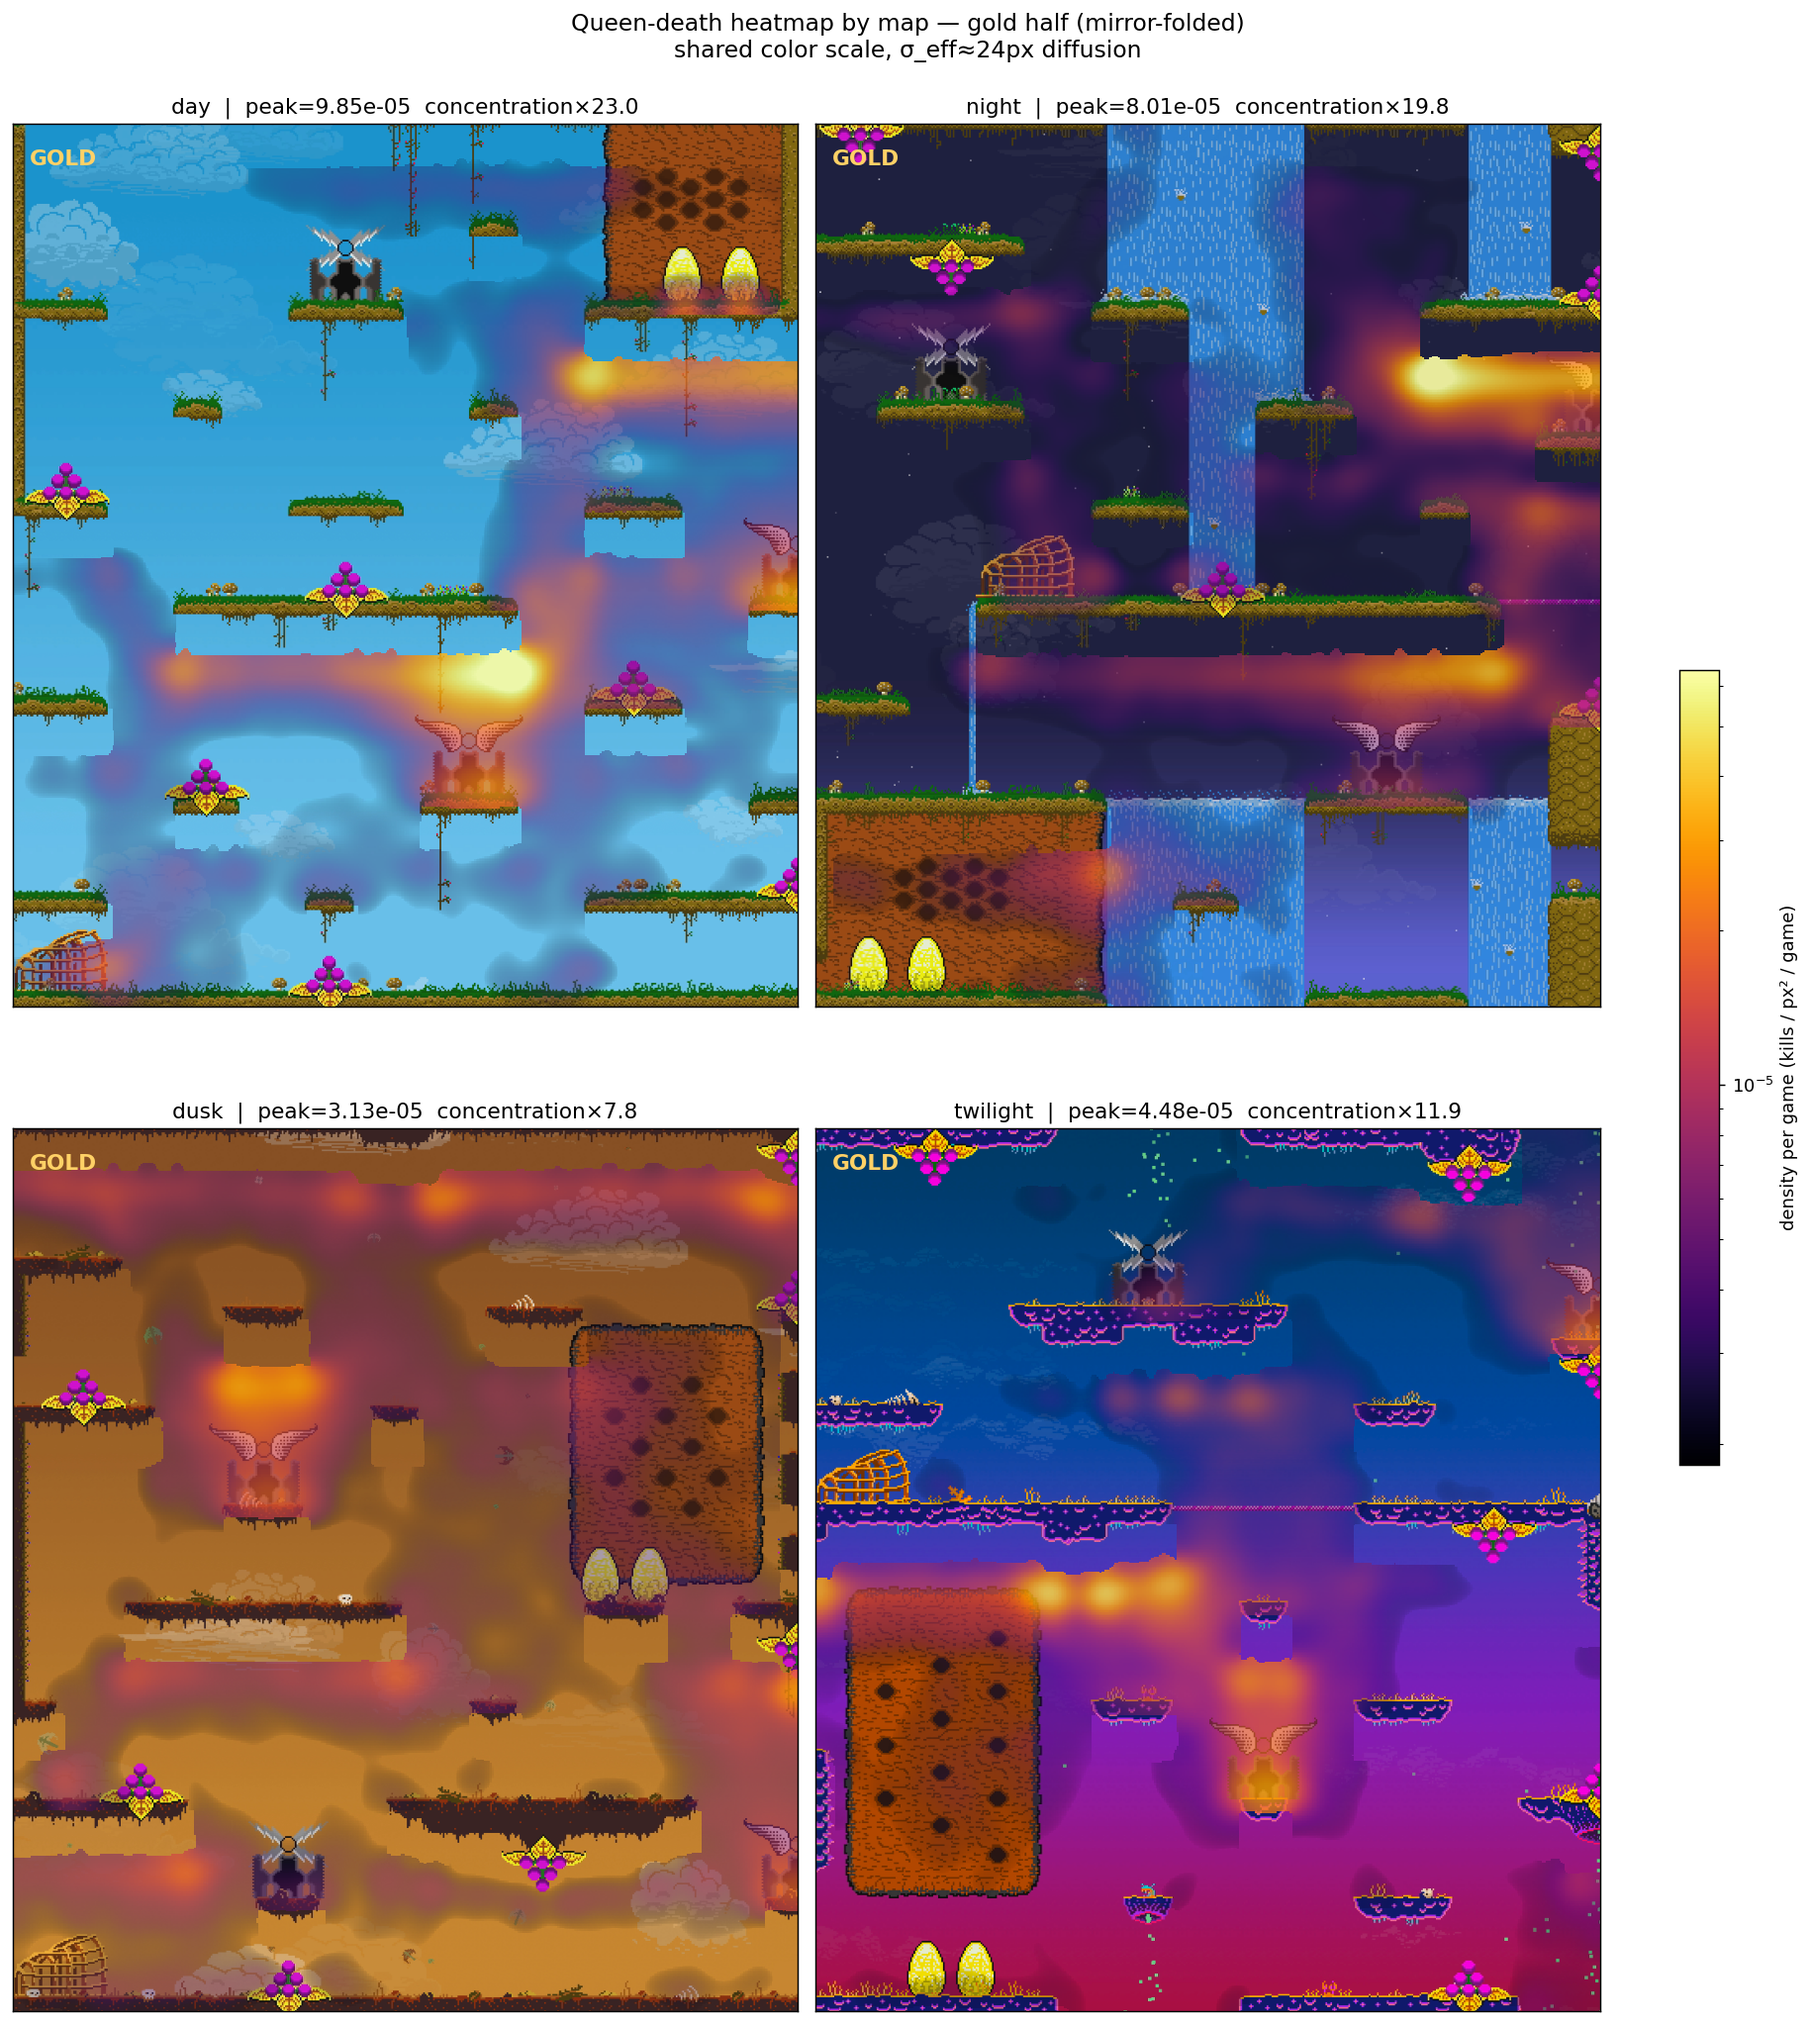
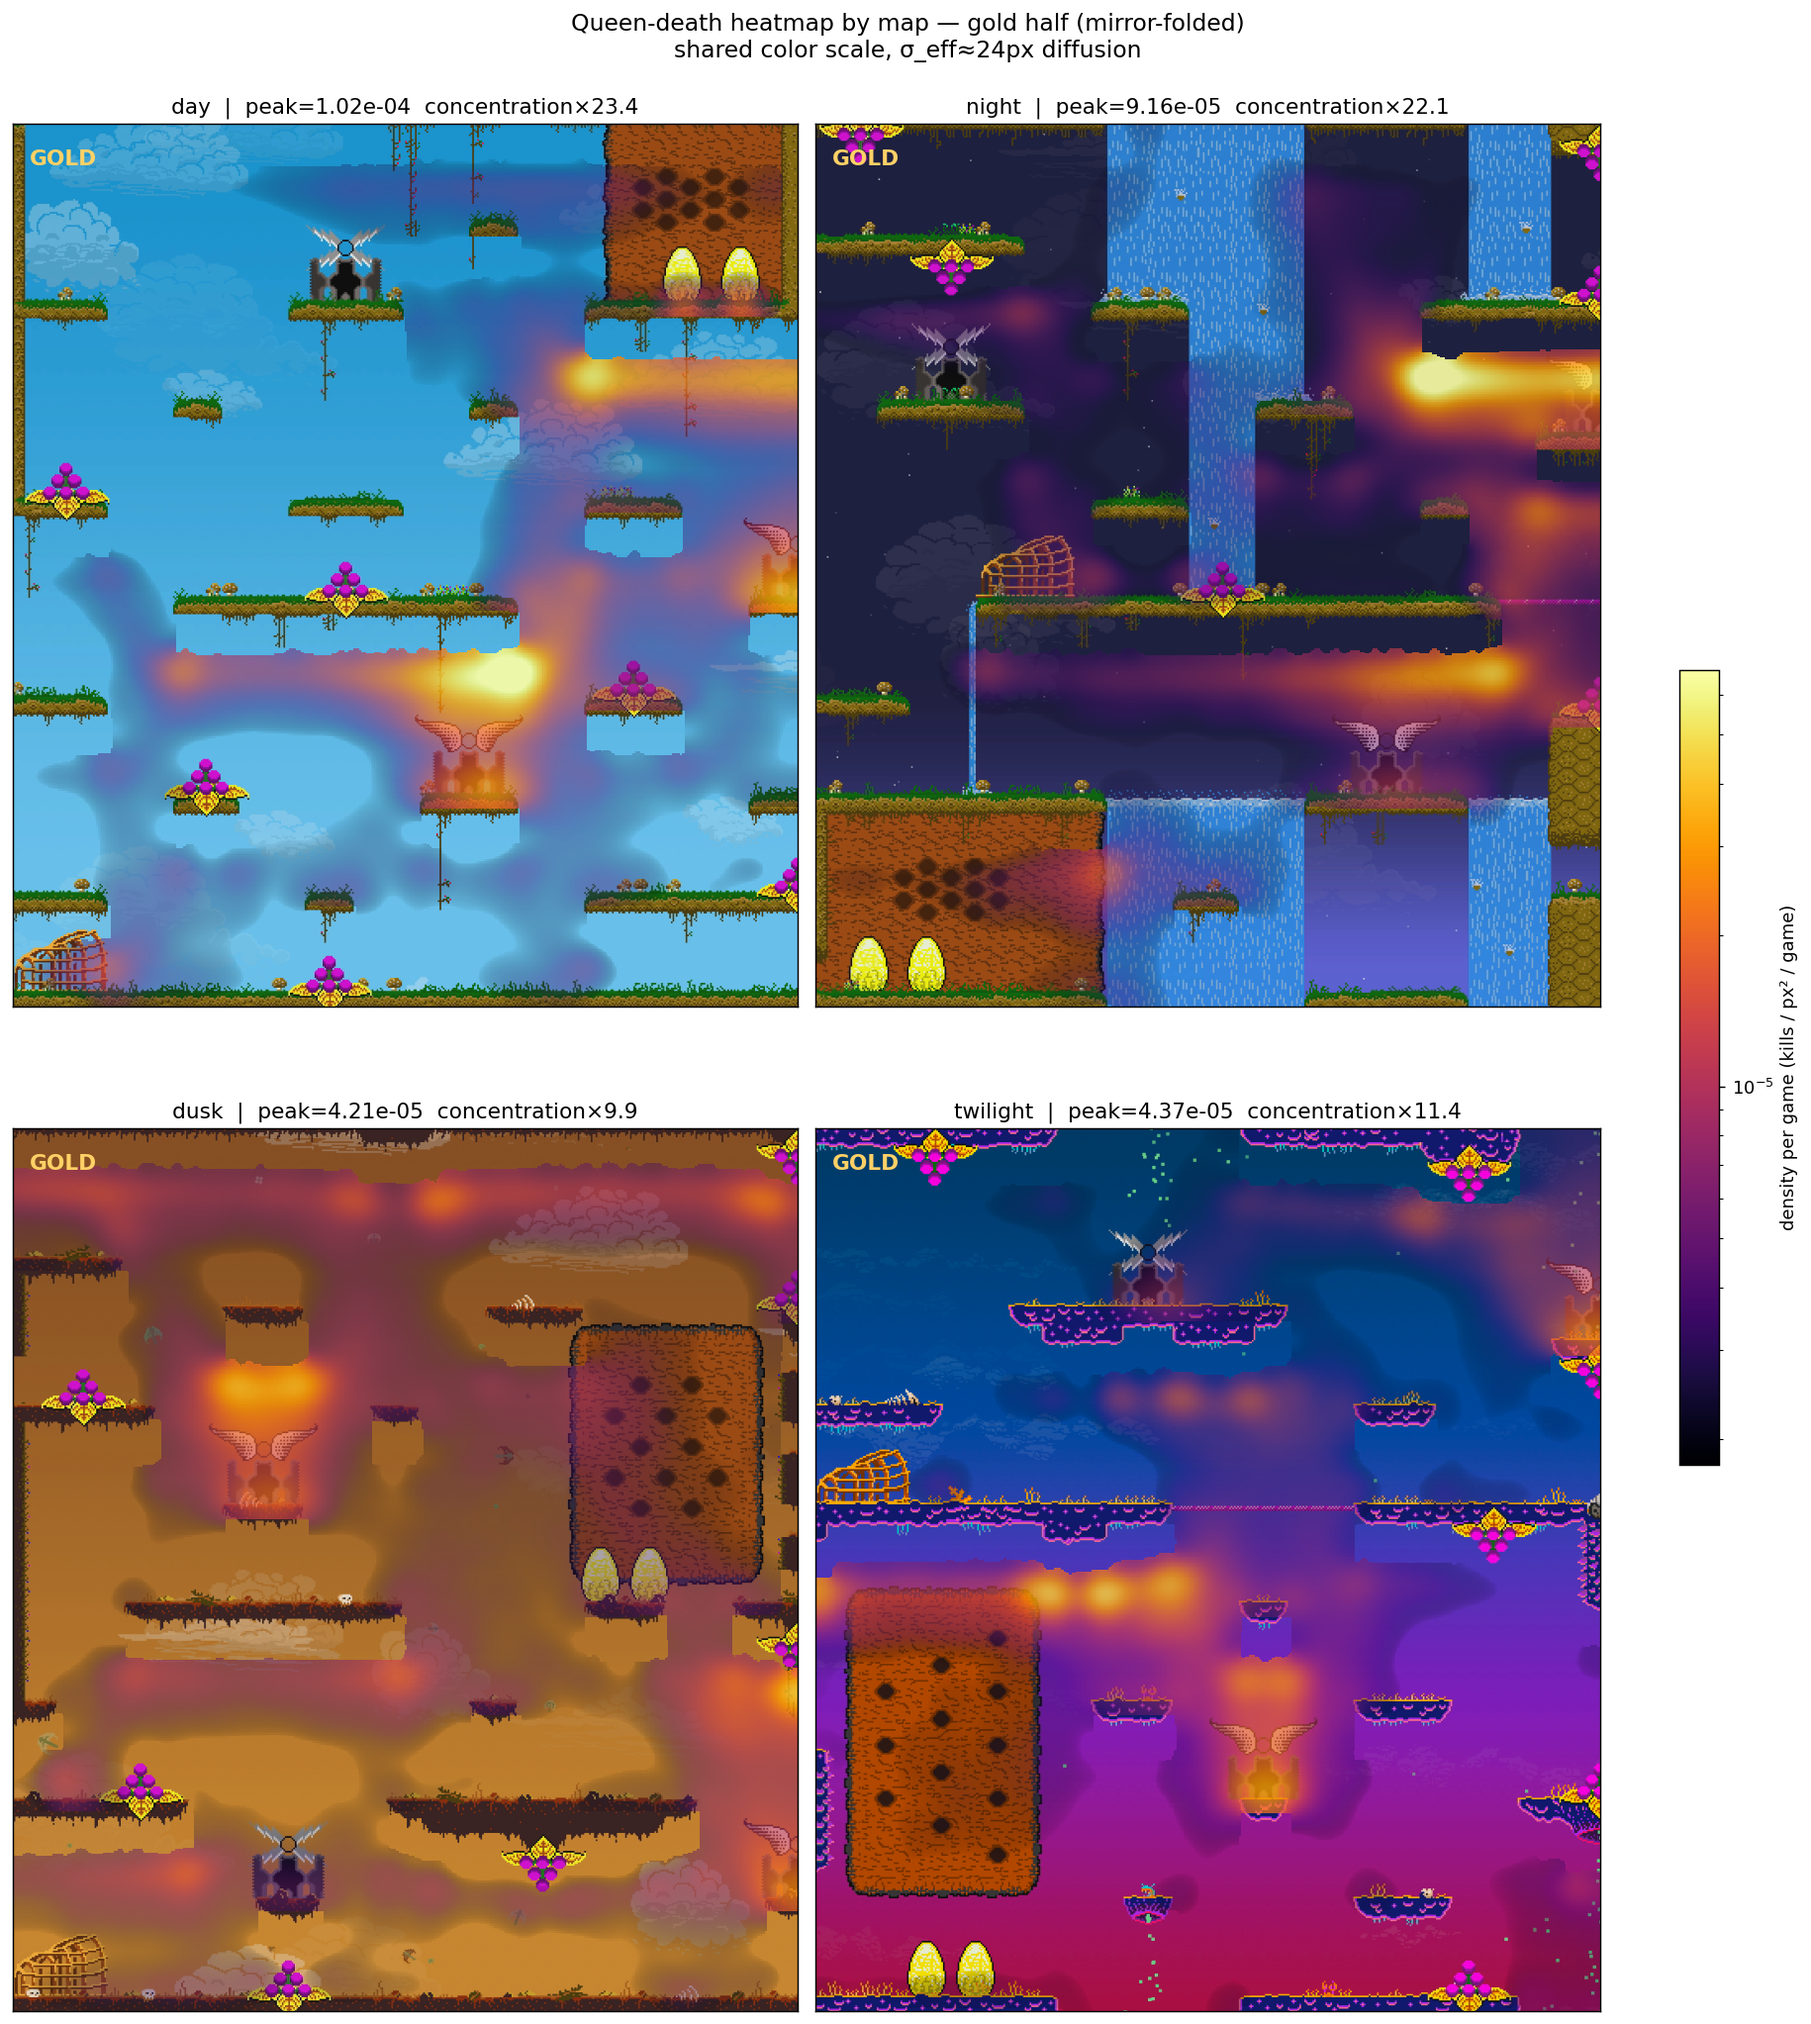
Re-run queen-death heatmap on full quality-filtered set
Drops the 10k-per-map sampling. Now uses every quality-filtered game:
49,147 day / 50,943 night / 47,427 dusk / 34,891 twilight (182,447
total, 6.1M kill events, 651k queen deaths). Concentration ratios
and peak densities updated; the qualitative ordering of maps is
unchanged but absolute peaks are tighter (e.g. night ×19.8 → ×22.1).

diff --git a/death_heatmap_analysis/report.html b/death_heatmap_analysis/report.html
@@ -59,9 +59,10 @@ plus the game&rsquo;s map index, quality rank, and
 <code>gold_on_left</code> flag. Positions are mirrored to a
 canonical gold-on-left frame; <em>y</em> is flipped from Cartesian
 (game) to pixel coordinates so it matches the screenshot.</p>
-<p>The figures below use 10,000 sampled games per map (~350,000 kill
-events per map; ~33,000 of those queen deaths). Where applicable, both
-sides of a map are mirror-folded onto the gold half via
+<p>Every quality-filtered game is included &mdash; 182,447 games in
+total (49,147 day, 50,943 night, 47,427 dusk, 34,891 twilight),
+6,096,016 kill events, 650,988 of them queen deaths. Where applicable,
+both sides of a map are mirror-folded onto the gold half via
 <code>x' = min(x, 1920 - x)</code>, doubling effective sample density
 in the visible area.</p>
 
@@ -138,10 +139,10 @@ sprite show through and high-density cells render opaque.</p>
 <h3>3.2 · Local D/K deviation</h3>
 <p>For each cell, two diffusion-smoothed densities:
 <em>D</em> = density of queen-deaths (rows where
-<code>killed_cat == &quot;Queen&quot;</code>);
+<code>killed_cat == &quot;Queen&quot;</code>; 180,136 events);
 <em>K</em> = density of kills <em>by</em> queens
-(rows where <code>killer_pid &isin; {1, 2}</code>). Plot
-<code>log&#x2081;&#x2080;(D/K)</code> minus the global value
+(rows where <code>killer_pid &isin; {1, 2}</code>; 701,574 events).
+Plot <code>log&#x2081;&#x2080;(D/K)</code> minus the global value
 <code>log&#x2081;&#x2080;(&Sigma;D / &Sigma;K)</code>. Cells with low
 combined signal (<em>D</em>+<em>K</em> below the 20th percentile of the
 playable region) are masked out.</p>
@@ -157,8 +158,9 @@ playable region) are masked out.</p>
 <p>Queen-death rows partitioned by killer:
 <code>killer_pid &isin; {1, 2}</code> &rarr; killer is the enemy queen;
 <code>killer_pid &ge; 3</code> &rarr; killer is a worker, which must be
-a winged soldier to have killed the queen. In the night sample,
-53.5% are by enemy queen and 46.5% by enemy soldier.</p>
+a winged soldier to have killed the queen. In the full night dataset,
+53.7% are by enemy queen (96,739 events) and 46.3% by enemy soldier
+(83,397 events).</p>
 <figure>
   <img src="queen_death_by_killer_left.png" alt="Queen-death heatmaps split by killer type">
   <figcaption>Two diffusion-smoothed densities on a shared LogNorm color
@@ -185,17 +187,18 @@ comparable across maps.</p>
   <thead>
     <tr>
       <th>map</th>
-      <th>sample games</th>
+      <th>games</th>
       <th>queen deaths</th>
+      <th>deaths / game</th>
       <th>peak density<br><span style="font-weight:400">(kills/px²/game)</span></th>
       <th>concentration<br><span style="font-weight:400">(peak ÷ playable mean)</span></th>
     </tr>
   </thead>
   <tbody>
-    <tr><td>day</td>      <td>9,994</td><td>35,582</td><td>9.85e&minus;5</td><td>×23.0</td></tr>
-    <tr><td>night</td>    <td>10,000</td><td>33,833</td><td>8.01e&minus;5</td><td>×19.8</td></tr>
-    <tr><td>twilight</td> <td>10,000</td><td>31,790</td><td>4.48e&minus;5</td><td>×11.9</td></tr>
-    <tr><td>dusk</td>     <td>10,000</td><td>33,963</td><td>3.13e&minus;5</td><td>×7.8</td></tr>
+    <tr><td>day</td>      <td>49,147</td><td>182,010</td><td>3.70</td><td>1.02e&minus;4</td><td>×23.4</td></tr>
+    <tr><td>night</td>    <td>50,943</td><td>180,136</td><td>3.54</td><td>9.16e&minus;5</td><td>×22.1</td></tr>
+    <tr><td>twilight</td> <td>34,891</td><td>116,224</td><td>3.33</td><td>4.37e&minus;5</td><td>×11.4</td></tr>
+    <tr><td>dusk</td>     <td>47,427</td><td>172,618</td><td>3.64</td><td>4.21e&minus;5</td><td>×9.9</td></tr>
   </tbody>
 </table>
 <p class="meta">Peak density: maximum cell value of the per-game

diff --git a/death_heatmap_analysis/extract_kills_all_maps.py b/death_heatmap_analysis/extract_kills_all_maps.py
@@ -20,7 +20,6 @@ OUT_PATH = os.path.join(os.path.dirname(__file__), "all_kills.parquet")
 
 MAP_NAMES = ["map_day", "map_night", "map_dusk", "map_twilight"]
 SCREEN_WIDTH = 1920
-SAMPLE_GAMES = 10_000
 
 
 def load_targets() -> dict[int, tuple[int, int, bool]]:
@@ -42,20 +41,13 @@ def main() -> None:
     target = load_targets()
     print(f"Total games in bin: {len(target)}", file=sys.stderr)
 
-    # Sample SAMPLE_GAMES per map (the bin is sorted by quality desc, so
-    # we take the highest-quality SAMPLE_GAMES per map for fairness).
-    import random
-    rng = random.Random(0)
-    by_map: dict[int, list[int]] = {0: [], 1: [], 2: [], 3: []}
-    # Walk in rank order — but `target` is a dict; rebuild ordered list
-    ordered = sorted(target.items(), key=lambda kv: kv[1][0])
-    for gid, (_, midx, _) in ordered:
-        if len(by_map[midx]) < SAMPLE_GAMES:
-            by_map[midx].append(gid)
-    keep: set[int] = set()
-    for midx, gids in by_map.items():
-        keep.update(gids)
-        print(f"  map {MAP_NAMES[midx]}: {len(gids)} games kept",
+    # Use every game in the quality-filtered set.
+    by_map: dict[int, int] = {0: 0, 1: 0, 2: 0, 3: 0}
+    for _, midx, _ in target.values():
+        by_map[midx] += 1
+    keep: set[int] = set(target.keys())
+    for midx, n in by_map.items():
+        print(f"  map {MAP_NAMES[midx]}: {n} games kept",
               file=sys.stderr)
 
     rows: list[tuple] = []

diff --git a/death_heatmap_analysis/plot_overlay_sharp.py b/death_heatmap_analysis/plot_overlay_sharp.py
@@ -42,7 +42,6 @@ Y_MAX = 1080
 GRID_X = 960   # 2 px / cell
 GRID_Y = 540
 TARGET_SIGMA_PX = 24
-SAMPLE_GAMES = 10_000
 
 
 def hist2d(x, y):
@@ -99,17 +98,11 @@ def diffusion_kde(H, mask, target_sigma_cells):
     return f
 
 
-def sample_df(df, n_games):
-    rng = np.random.default_rng(0)
-    games = df["game_id"].unique()
-    keep = rng.choice(games, size=min(n_games, len(games)), replace=False)
-    return df[df["game_id"].isin(keep)]
-
-
 def main():
-    df = sample_df(pd.read_parquet(DATA), SAMPLE_GAMES)
+    df = pd.read_parquet(DATA)
     deaths = df[df["killed_cat"] == "Queen"]
-    print(f"Sampled: {len(df):,} kills, {len(deaths):,} queen deaths")
+    print(f"Loaded: {len(df):,} kills, {len(deaths):,} queen deaths "
+          f"from {df['game_id'].nunique():,} games")
 
     x_all = df["x_canon"].to_numpy(np.float64)
     y_all = (Y_MAX - df["y"]).to_numpy(np.float64)
@@ -181,7 +174,7 @@ def main():
     fig.colorbar(last_im, ax=axes, shrink=0.5, label="density (kills / px²)")
     fig.suptitle(
         f"Geometry-aware queen-death heatmap (night, {len(deaths):,} kills "
-        f"from {SAMPLE_GAMES:,} games)\n"
+        f"from {df['game_id'].nunique():,} games)\n"
         "playable region inferred from where ANY kill ever happened",
         fontsize=12,
     )

diff --git a/death_heatmap_analysis/plot_left_half_all.py b/death_heatmap_analysis/plot_left_half_all.py
@@ -29,18 +29,12 @@ X_HALF = X_MAX // 2  # 960
 GRID_X = 480     # 2 px / cell on the half-frame
 GRID_Y = 540
 TARGET_SIGMA_PX = 24
-SAMPLE_GAMES = 10_000
 
 
 # ----- data prep ------------------------------------------------------
 
 def load_folded():
-    df = pd.read_parquet(DATA)
-    rng = np.random.default_rng(0)
-    games = df["game_id"].unique()
-    keep = rng.choice(games, size=min(SAMPLE_GAMES, len(games)),
-                      replace=False)
-    df = df[df["game_id"].isin(keep)].copy()
+    df = pd.read_parquet(DATA).copy()
     # Fold blue side onto gold side
     xc = df["x_canon"].to_numpy(np.float64)
     df["x_fold"] = np.where(xc <= X_HALF, xc, X_MAX - xc)
